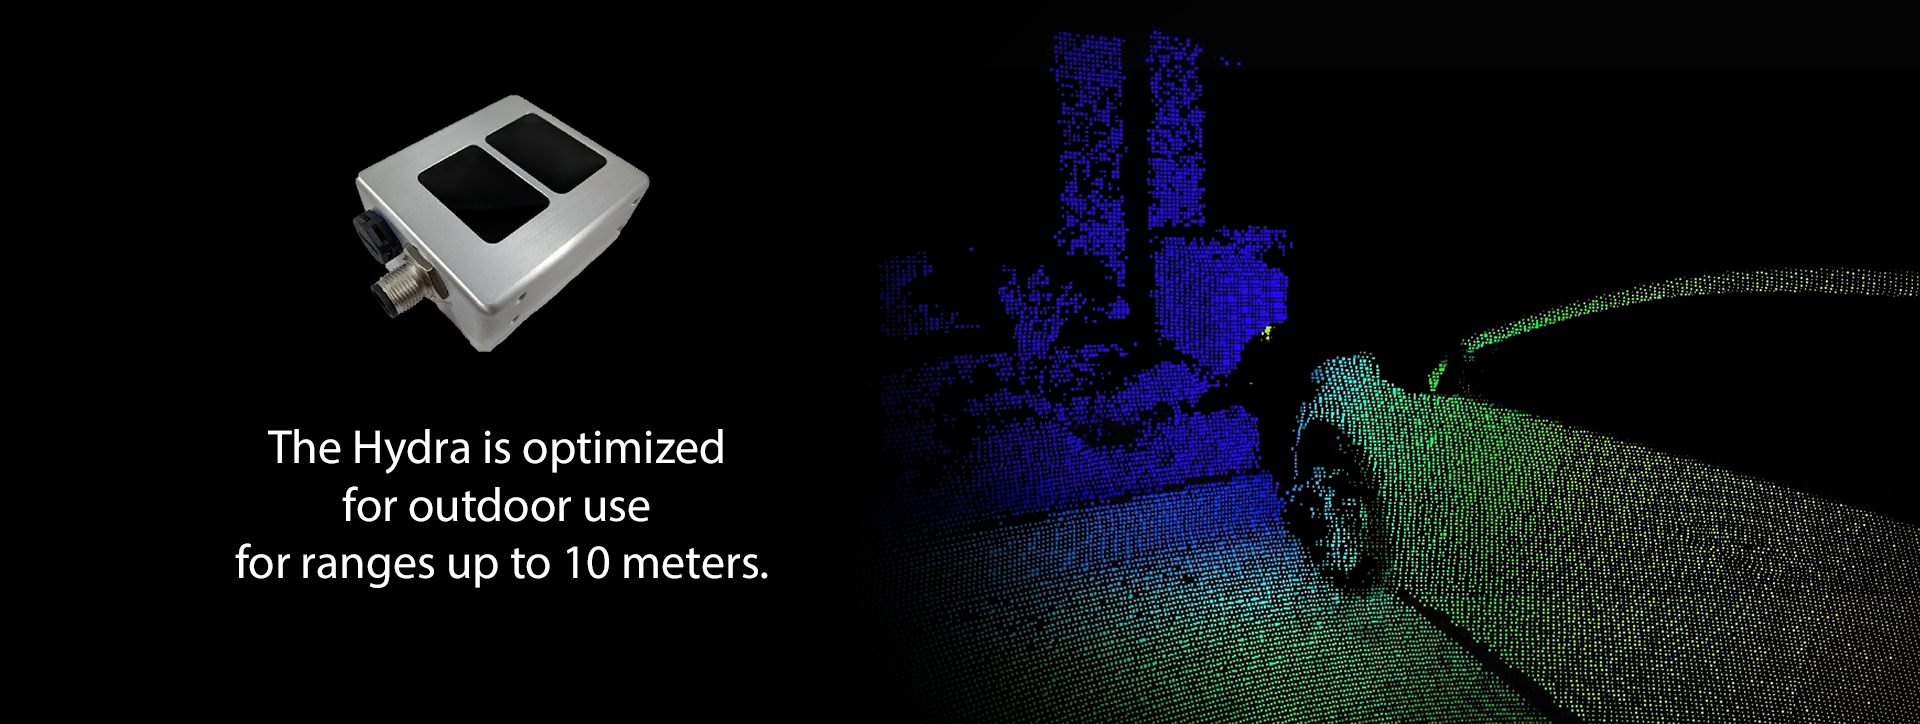
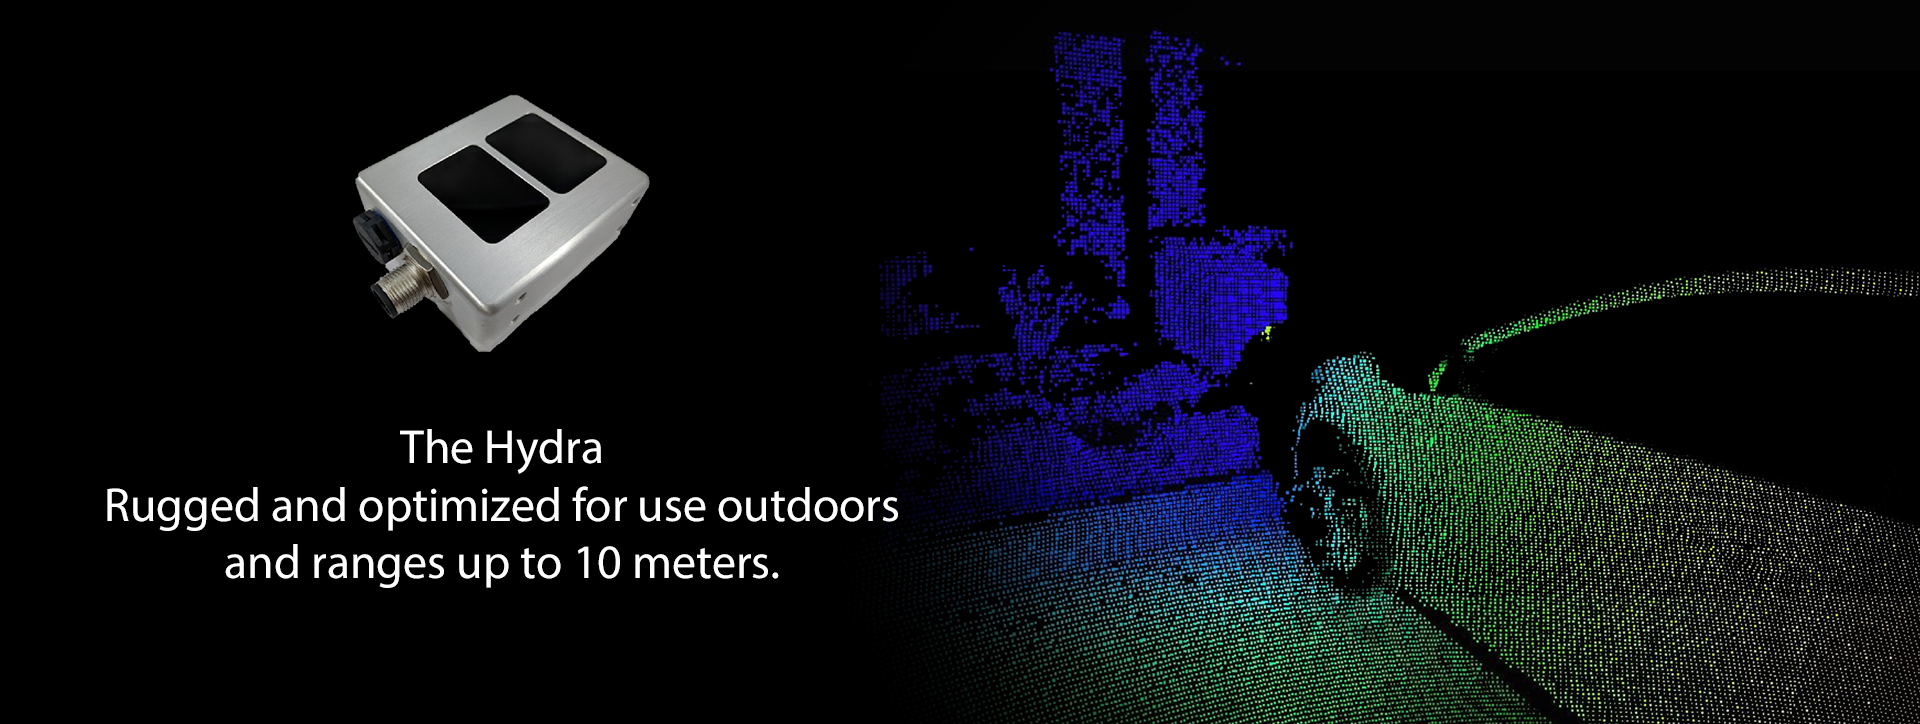
project manager

Changed region(s): [[0.0312, 0.6685, 0.4688, 0.7293], [0.125, 0.7597, 0.4062, 0.8204], [0.125, 0.5773, 0.375, 0.6381]]

diff --git a/client/src/components/Products/Hydra/Specs.js b/client/src/components/Products/Hydra/Specs.js
@@ -12,14 +12,14 @@ const Specs = () => {
                 </div>
                 <div className="col-md-8">
                     <ul>
-                        <li className="spec-list">Optimized for outdoor direct sunlight performance</li>
-                        <li className="spec-list">Gigabit Ethernet data output</li>
-                        <li className="spec-list"> The Hydra is a Smart Camera outputs provides point cloud data</li>
-                        <li className="spec-list">Up to 10 m range</li>
-                        <li className="spec-list">Up to 30 fps</li>
-                        <li className="spec-list">100 kpixel resolution</li>
-                        <li className="spec-list">100 x 85 deg Field of View</li>
-                        <li className="spec-list">-40 to 105 C operating temperature</li>
+                        <li className="spec-list">Optimized for indoor and outdoor, direct sunlight use</li>
+                        <li className="spec-list">Gigabit Ethernet</li>
+                        <li className="spec-list">Onboard processing delivers point cloud data directly</li>
+                        <li className="spec-list">Range up to 10m</li>
+                        <li className="spec-list">Frame rate up to 30fps</li>
+                        <li className="spec-list">High-resolution 100 kpixel sensor</li>
+                        <li className="spec-list">Wide 100 x 85deg field of view</li>
+                        <li className="spec-list">-40 to 105degC operating range</li>
                         <li className="spec-list">IP67 Enclosure</li>
                     </ul>
                 </div>

diff --git a/client/src/components/Products/Monstar/Specs.js b/client/src/components/Products/Monstar/Specs.js
@@ -12,12 +12,12 @@ const Specs = () => {
                 </div>
                 <div className="col-md-8">
                     <ul>
-                        <li className="spec-list">100 kpixel resolution</li>
-                        <li className="spec-list">6 m range</li>
-                        <li className="spec-list">USB 3.0 powered</li>
-                        <li className="spec-list">Expansion port with MIPI and parallel interface</li>
-                        <li className="spec-list">100° x 85°, 80° x 60°, and 60° x 45° Field of View Options</li>
-                        <li className="spec-list">Indoor and outdoor optimized versions available</li>
+                        <li className="spec-list">Range up to 6m</li>
+                        <li className="spec-list">Power and communication over USB 3.0</li>
+                        <li className="spec-list">High-resolution 100 kpixel sensor</li>
+                        <li className="spec-list">Expansion port with MIPI and parallel interfaces</li>
+                        <li className="spec-list">Three Fields of View: 100° x 85°, 80° x 60° or 60° x 45°</li>
+                        <li className="spec-list">Available optimized for indoor or outdoor use</li>
                     </ul>
                 </div>
             </div>

diff --git a/functions.js b/functions.js
@@ -3,16 +3,17 @@ var nodemailer = require('nodemailer');
 exports.contactEmail = (name, email, phone, quantity, message, option1, option2, option3) => {
     var transporter = nodemailer.createTransport({
       service: 'gmail',
+      secure: true,
       auth: {
         user: "jakesclients@gmail.com" || process.env.MAIL_USER,
         pass: "X13Bilxzs" || process.env.MAIL_PASS
       }
     });
     var mailOptions = {
-      from: email,
-      to: 'fusionsens@gern8.net', //jakesclients@gmail.com
+      from: 'fusionsens@gener8.net',
+      to: 'fusionsens@gener8.net', //jakesclients@gmail.com
       subject: 'You have a new contact request',
-      html: `<h4>name:</h4> ${name} <h4>email:</h4> ${email} <h4>phone:</h4> ${phone} <h4>Quantity</h4> ${quantity} <h4>message:</h4> ${message} <h4>Option 1:</h4> ${option1} <h4>Option 2:</h4> ${option2} <h4>Option 3:</h4> ${option3}`,
+      html: `<h4>name:</h4> ${name} <h4>email:</h4> ${email} <h4>phone:</h4> ${phone} <h4>quantity:</h4> ${quantity} <h4>message:</h4> ${message} <h4>Option 1:</h4> ${option1} <h4>Option 2:</h4> ${option2} <h4>Option 3:</h4> ${option3}`,
     };
     transporter.sendMail(mailOptions, function (error, info) {
       if (error) {

diff --git a/client/src/components/Products/Maxx/Specs.js b/client/src/components/Products/Maxx/Specs.js
@@ -12,11 +12,11 @@ const Specs = () => {
                 </div>
                 <div className="col-md-8">
                     <ul>
-                        <li className="spec-list">100 kpixel resolution</li>
-                        <li className="spec-list">4 m range</li>
-                        <li className="spec-list">USB 3.0 powered</li>
-                        <li className="spec-list">100° x 85°, 80° x 60°, and 60° x 45° Field of View Options</li>
-                        <li className="spec-list">Indoor and outdoor optimized versions available</li>
+                        <li className="spec-list">High-resolution 100 kpixel sensor</li>
+                        <li className="spec-list">Range up to 4m</li>
+                        <li className="spec-list">Power and communication over USB 3.0</li>
+                        <li className="spec-list">Three Fields of View: 100° x 85°, 80° x 60° or 60° x 45°</li>
+                        <li className="spec-list">Available optimized for indoor or outdoor use</li>
                     </ul>
                 </div>
             </div>

diff --git a/client/src/components/Products/Hydra/Hero.js b/client/src/components/Products/Hydra/Hero.js
@@ -8,7 +8,7 @@ const Hero = () => {
             <div className="hydra-banner row">
                 <div className="col-md-6">
                         <h2 className="hydra-title">Hydra</h2>
-                    <p className="hydra-cta">The FusionSens Hydra is an enhanced performance smart Time of Flight camera optimized for use in automotive and industrial environments. It offers best in class performance for performance, range and robustness.</p>
+                    <p className="hydra-cta">FusionSens Hydra is optimized for automotive and industrial environments and streams point cloud data over Ethernet for seamless integration into your software environment.  Best-in-class performance, range and robustness.</p>
                 </div>
                 <div className="col-md-6">
                     <img src={HydraImg} alt="hydra" className="hydra-img" />

diff --git a/client/src/components/Products/Monstar/Hero.js b/client/src/components/Products/Monstar/Hero.js
@@ -8,7 +8,7 @@ const Hero = () => {
             <div className="monstar-banner row">
                 <div className="col-md-6">
                         <h2 className="monstar-title">Monstar</h2>
-                    <p className="monstar-cta">The FusionSens Monstar is a high performance time of flight camera optimized for cutting edge industrial and robotic applications. It offers best in class performance for performance and range.</p>
+                    <p className="monstar-cta">FusionSens Monstar high-performance time of flight camera enables 3D imaging for industrial automation, robotics and is easy to integrate with any system.  Best-in-class performance and range.</p>
                 </div>
                 <div className="col-md-6">
                     <img src={MonstarImg} alt="Monstar" className="monstar-img" />

diff --git a/client/src/components/Products/Maxx/Hero.js b/client/src/components/Products/Maxx/Hero.js
@@ -8,7 +8,7 @@ const Hero = () => {
             <div className="maxx-banner row">
                 <div className="col-md-6">
                         <h2 className="maxx-title">Maxx</h2>
-                    <p className="maxx-cta">The FusionSens Maxx is a compact time of flight camera optimized for edge industrial, AR/VR, and robotic applications.</p>
+                    <p className="maxx-cta">FusionSens Maxx compact time of flight cameras are the ideal 3D imager for edge industrial, AR, VR, mobile and robotics.</p>
                 </div>
                 <div className="col-md-6">
                     <img src={MaxxImg} alt="Maxx" className="maxx-img" />

diff --git a/client/src/components/Perms/Header.js b/client/src/components/Perms/Header.js
@@ -28,7 +28,7 @@ class Header extends Component{
                             <nav className='header-nav'>
                                 <span id="product-drop" className="nav-links"><Dropdown /></span>
                                 <span id="product-drop-two" className="nav-links"><Support /></span>
-                                <Link className="contact-button" to="/order">Order Now</Link>
+                                <a className="contact-button" href="/order">Order Now</a>
                             </nav>
                         </div>
                     </div>

diff --git a/client/src/components/Perms/Footer.js b/client/src/components/Perms/Footer.js
@@ -28,7 +28,7 @@ class Footer extends Component {
                         </div>
                         <div className="col-md-3">
                             <h4 className="footer-heading">ORDERING</h4>
-                            <Link to="/order" className="small-order-button">Order Now</Link>
+                            <a href="/order" className="small-order-button">Order Now</a>
                             <div style={{height: "15px"}}></div>
                             <Link to="/login" className="login-button">Login</Link>
                         </div>

diff --git a/client/src/components/Home/Carousel.js b/client/src/components/Home/Carousel.js
@@ -8,7 +8,7 @@ import HeroFour from '../../images/Main_Hero_4.jpg';
 const Carousel = () => {
     return (
         <div className="container-fluid full-carousel">
-            <div id="myCarousel" className="carousel slide" data-ride="carousel">
+            <div id="myCarousel" className="carousel slide" data-ride="carousel" data-interval="6000">
                 <ol className="carousel-indicators">
                 <li data-target="#myCarousel" data-slide-to="0" className="active"></li>
                 <li data-target="#myCarousel" data-slide-to="1"></li>

diff --git a/client/src/components/Home/SenseBox.js b/client/src/components/Home/SenseBox.js
@@ -6,7 +6,7 @@ const SenseBox = () => {
     return (
         <div className="container-fluid sense-box">
             <h2 className="sense-title">World Class 3D Depth Sensing Development Kits</h2>
-            <p className="sense-desc">The FusionSens line of cameras offer unmatched performance to help jump start your 3d Sensing application</p>
+            <p className="sense-desc">The FusionSens line of cameras offer unmatched performance to help jump start your 3D Sensing applications.</p>
         </div>
     )
 }

diff --git a/client/src/components/Perms/Policy.js b/client/src/components/Perms/Policy.js
@@ -10,7 +10,7 @@ const Policy = () => {
 <p>Effective date: December 02, 2018</p>
 
 
-<p>FusionSens ("us", "we", or "our") operates the https://fusionsens.herokuapp.com/ website (the "Service").</p>
+<p>Gener8 ("us", "we", or "our") operates the https://fusionsens.com/ website (the "Service").</p>
 
 <p>This page informs you of our policies regarding the collection, use, and disclosure of personal data when you use our Service and the choices you have associated with that data.</p>
 
